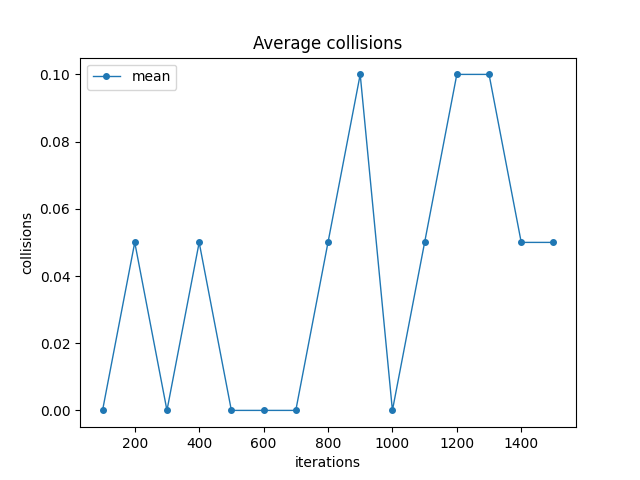
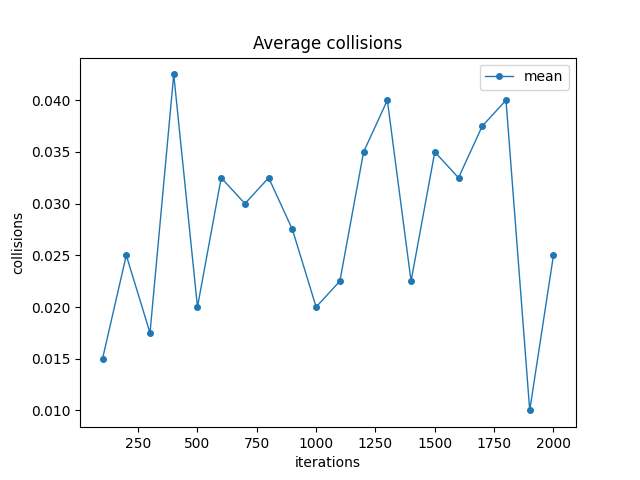
fixing bug in retries collector, regenerating results, PoC of TCP simulations

diff --git a/simulation/experiments_utils/test_graphs_builders.py b/simulation/experiments_utils/test_graphs_builders.py
@@ -4,12 +4,12 @@ from simulation.core.system_builder import *
 
 class FullGraphBuilder:
 
-    def __init__(self, env):
-        self.__nodesNumber = 0
-        self.__env = env
+    def __init__(self, nodesNumber):
+        self.__nodesNumber = nodesNumber
+        self.__env = None
 
-    def setNodesNumber(self, number):
-        self.__nodesNumber = number
+    def setEnvironment(self, env):
+        self.__env = env
         return self
 
     def build(self, systemBuilder):
@@ -22,21 +22,35 @@ class FullGraphBuilder:
                 systemBuilder.addEdge(Edge(source=i, target=j, weight=10 * i + j))
 
 
-class FullGraphBuilderLowServiceTime:
+class TreeGraphBuilder:
 
-    def __init__(self, env):
-        self.__nodesNumber = 0
+    def __init__(self, switches, hostsPerSwitch):
+        self.__switchesNumber = switches
+        self.__hostsNumberPerSwitch = hostsPerSwitch
+        self.__env = None
+        self.__switches = list()
+        self.__hosts = list()
+
+    def setEnvironment(self, env):
         self.__env = env
-
-    def setNodesNumber(self, number):
-        self.__nodesNumber = number
         return self
 
     def build(self, systemBuilder):
-        n = self.__nodesNumber
+        index = 0
+        n = self.__switchesNumber
         for i in range(0, n):
-            systemBuilder.addVertex(Vertex(node=Node(env=self.__env, serviceTime=i * 10, index=i)))
+            self.__switches.append(index)
+            systemBuilder.addVertex(Vertex(node=Node(env=self.__env, serviceTime=10, index=index)))
+            index += 1
 
         for i in range(0, n ):
             for j in range(0, n ):
-                systemBuilder.addEdge(Edge(source=i, target=j, weight=10 * i + j))
+                systemBuilder.addEdge(Edge(source=i, target=j, weight=10))
+
+        n = self.__hostsNumberPerSwitch
+        for switch in self.__switches:
+            for i in range(0, n):
+                systemBuilder.addVertex(Vertex(node=Node(env=self.__env, serviceTime=0, index=index)))
+                self.__hosts.append(index)
+                systemBuilder.addEdge(Edge(source=index, target=switch, weight=1))
+                index += 1

diff --git a/simulation/experiments/executable_experiments/tcp_random_task_scheduling.py b/simulation/experiments/executable_experiments/tcp_random_task_scheduling.py
@@ -6,21 +6,25 @@ from simulation.experiments_utils.logger import Logger
 from simulation.experiments_utils.analytics.experiment_analyzer import *
 from simulation.experiments_utils.tasks_generator import generateTasksQueue
 from simulation.experiments_utils.csv_writer import CsvWriter
+from simulation.experiments_utils.test_graphs_builders import TreeGraphBuilder
 
 
-def run(connectionsNumber, nodesNumber, graphBuilderName):
+def run(connectionsNumber, switchesNumber, hostsPerSwitch, graphBuilderClass):
     experimentCollector = ExperimentCollector(Logger())
     analyzer = ExperimentAnalyzer(experimentCollector)
 
-    tasksQueue = generateTasksQueue(connectionsNumber, nodesNumber)
+    graphBuilder = graphBuilderClass(switchesNumber, hostsPerSwitch)
+    tasksQueue = generateTasksQueue(connectionsNumber, switchesNumber + hostsPerSwitch)
 
-    for iterations in range(100, 1600, 100):
-        experiment = RandomTasksScheduling(tasksQueue, connectionsNumber, nodesNumber, iterations, graphBuilderName)
-        Runner(experiment, experimentCollector.getRetriesCollector(iterations)).run(times=20)
+    executorsNumber = int(connectionsNumber / 10)
+
+    for iterations in range(100, 1100, 100):
+        experiment = RandomTasksScheduling(tasksQueue, executorsNumber, iterations, graphBuilder)
+        Runner(experiment, experimentCollector.getRetriesCollector(iterations)).run(times=10)
 
     legend = {
         'TCP connections number': connectionsNumber,
-        'Switches Number': nodesNumber
+        'Switches Number': switchesNumber
     }
 
     resultsDir = '/home/kmarszal/Documents/dev/avgvis/simulation/experiments/results/tcp_random_task_scheduling'
@@ -31,4 +35,4 @@ def run(connectionsNumber, nodesNumber, graphBuilderName):
     plotSeries(analyzer.analyze('collisions', ['mean']), 'Average collisions', 'collisions', 'iterations', os.path.join(resultsDir, "collisions.png"))
 
 
-run(connectionsNumber=100, nodesNumber=15, graphBuilderName='FullGraphBuilder')
+run(connectionsNumber=100, switchesNumber=15, hostsPerSwitch=5, graphBuilderClass=TreeGraphBuilder)

diff --git a/simulation/experiments/executable_experiments/agv_random_task_scheduling.py b/simulation/experiments/executable_experiments/agv_random_task_scheduling.py
@@ -6,16 +6,18 @@ from simulation.experiments_utils.logger import Logger
 from simulation.experiments_utils.analytics.experiment_analyzer import *
 from simulation.experiments_utils.tasks_generator import generateTasksQueue
 from simulation.experiments_utils.csv_writer import CsvWriter
+from simulation.experiments_utils.test_graphs_builders import FullGraphBuilder
 
 
-def run(tasksNumber, agvsNumber, stationsNumber, graphBuilderName):
+def run(tasksNumber, agvsNumber, stationsNumber, graphBuilderClass):
     experimentCollector = ExperimentCollector(Logger())
     analyzer = ExperimentAnalyzer(experimentCollector)
 
     tasksQueue = generateTasksQueue(tasksNumber, stationsNumber)
+    graphBuilder = graphBuilderClass(stationsNumber)
 
-    for iterations in range(100, 1600, 100):
-        experiment = RandomTasksScheduling(tasksQueue, agvsNumber, stationsNumber, iterations, graphBuilderName)
+    for iterations in range(100, 2100, 100):
+        experiment = RandomTasksScheduling(tasksQueue, agvsNumber, iterations, graphBuilder)
         Runner(experiment, experimentCollector.getRetriesCollector(iterations)).run(times=20)
 
     legend = {
@@ -32,4 +34,4 @@ def run(tasksNumber, agvsNumber, stationsNumber, graphBuilderName):
     plotSeries(analyzer.analyze('collisions', ['mean']), 'Average collisions', 'collisions', 'iterations', os.path.join(resultsDir, "collisions.png"))
 
 
-run(tasksNumber=100, agvsNumber=20, stationsNumber=15, graphBuilderName='FullGraphBuilder')
+run(tasksNumber=100, agvsNumber=20, stationsNumber=15, graphBuilderClass=FullGraphBuilder)

diff --git a/simulation/core/simulated_annealing_traverser.py b/simulation/core/simulated_annealing_traverser.py
@@ -15,13 +15,14 @@ class SimulatedAnnealingTraverser:
 
     def __generatePathFromTasks(self):
         path = []
+        k = 1
         for i in range(0, len(self.__tasksSequence)):
-            partialPath = random.choice(self.system.graph.get_k_shortest_paths(self.__tasksSequence[i].source(), self.__tasksSequence[i].destination(), 1))
+            partialPath = random.choice(self.system.graph.get_k_shortest_paths(self.__tasksSequence[i].source(), self.__tasksSequence[i].destination(), k))
             if i > 0 and self.__tasksSequence[i-1].destination() == self.__tasksSequence[i].source():
                 partialPath.pop(0)
             path.extend(partialPath)
             if (i < len(self.__tasksSequence) - 1) and self.__tasksSequence[i].destination() != self.__tasksSequence[i+1].source():
-                partialPath = random.choice(self.system.graph.get_k_shortest_paths(self.__tasksSequence[i].destination(), self.__tasksSequence[i+1].source(), 1))
+                partialPath = random.choice(self.system.graph.get_k_shortest_paths(self.__tasksSequence[i].destination(), self.__tasksSequence[i+1].source(), k))
                 partialPath.pop(0)
                 partialPath.pop()
                 path.extend(partialPath)

diff --git a/simulation/experiments/generic_experiments/tasks_scheduling_experiment.py b/simulation/experiments/generic_experiments/tasks_scheduling_experiment.py
@@ -1,19 +1,17 @@
 import copy
 from simulation.core.composition_root import CompositionRoot as CoreRoot
 from simulation.simpy_adapter.composition_root import CompositionRoot as SimpyRoot
-from simulation.experiments_utils.test_graph_builders_factory_method import createBuilder
 
 
 class RandomTasksScheduling:
 
-    def __init__(self, tasksQueue, executorsNumber, nodesNumber, iterations, builderName):
+    def __init__(self, tasksQueue, executorsNumber, iterations, builder):
         self.__coreRoot = CoreRoot()
         self.__simpyRoot = SimpyRoot(1000000)
         self.__executorsNumber = executorsNumber
         self.__tasksQueue = tasksQueue
-        self.__nodesNumber = nodesNumber
         self.__iterations = iterations
-        self.__testGraphBuilder = createBuilder(builderName, self.__simpyRoot.simulation.env).setNodesNumber(nodesNumber)
+        self.__testGraphBuilder = builder.setEnvironment(self.__simpyRoot.simulation.env)
 
     def run(self, statisticsCollector):
         dependencies = {'agentsFactory': self.__simpyRoot.simpyAgentsFactory, 'simulation': self.__simpyRoot.simulation}

diff --git a/simulation/experiments_utils/data_collectors/retries_collector.py b/simulation/experiments_utils/data_collectors/retries_collector.py
@@ -5,16 +5,18 @@ class RetriesCollector:
     def __init__(self, partialResultsObserver):
         self.__statisticsCollectors = list()
         self.__partialResultsObserver = partialResultsObserver
+        self.__aggregateFunction = None
 
     def statisticsCollector(self):
         self.__statisticsCollectors.append(StatisticsCollector())
         return self.__statisticsCollectors[-1]
 
     def statistics(self, statistic):
+        #future: handle aggregateFunction
         res = list()
         for statisticsCollector in self.__statisticsCollectors:
-            res.append(statisticsCollector.statistic(statistic))
+            res.append(statisticsCollector.avg(statistic))
         return res
 
     def onRetryFinished(self):
-        self.__partialResultsObserver.onPartialResult(self.__statisticsCollectors[-1].statistic('cost'))
+        self.__partialResultsObserver.onPartialResult(self.__statisticsCollectors[-1].avg('cost'))
